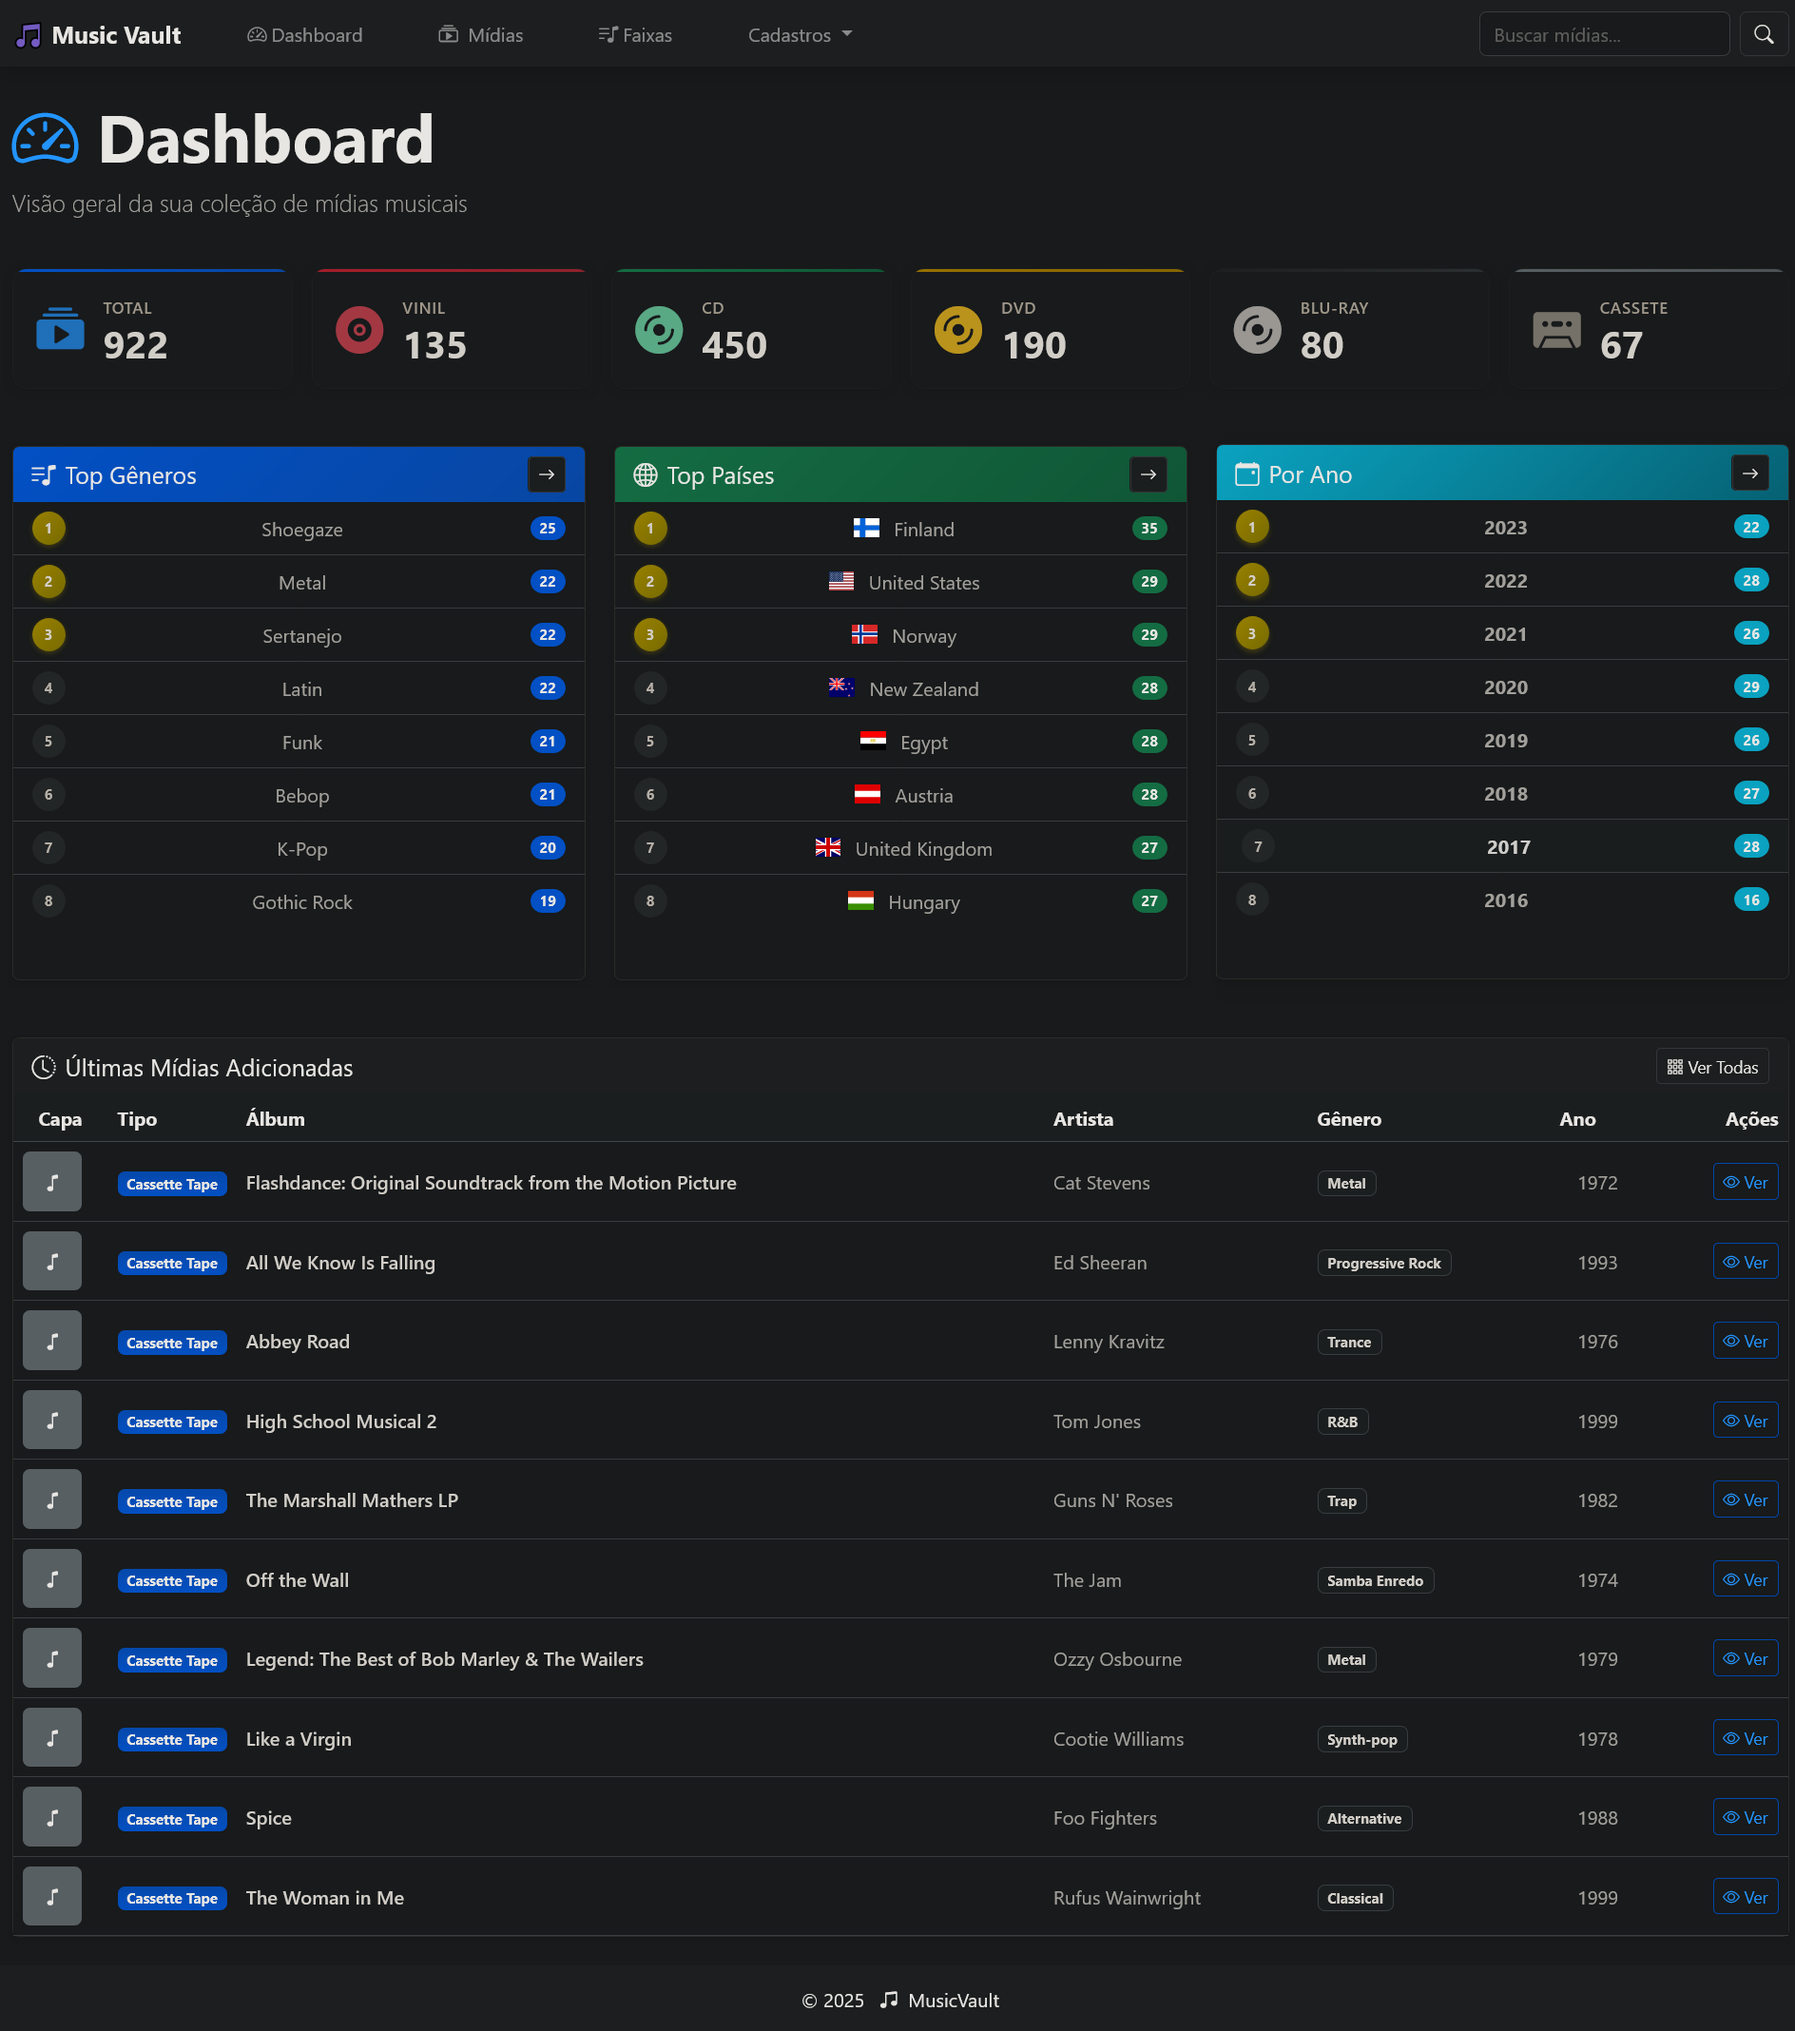
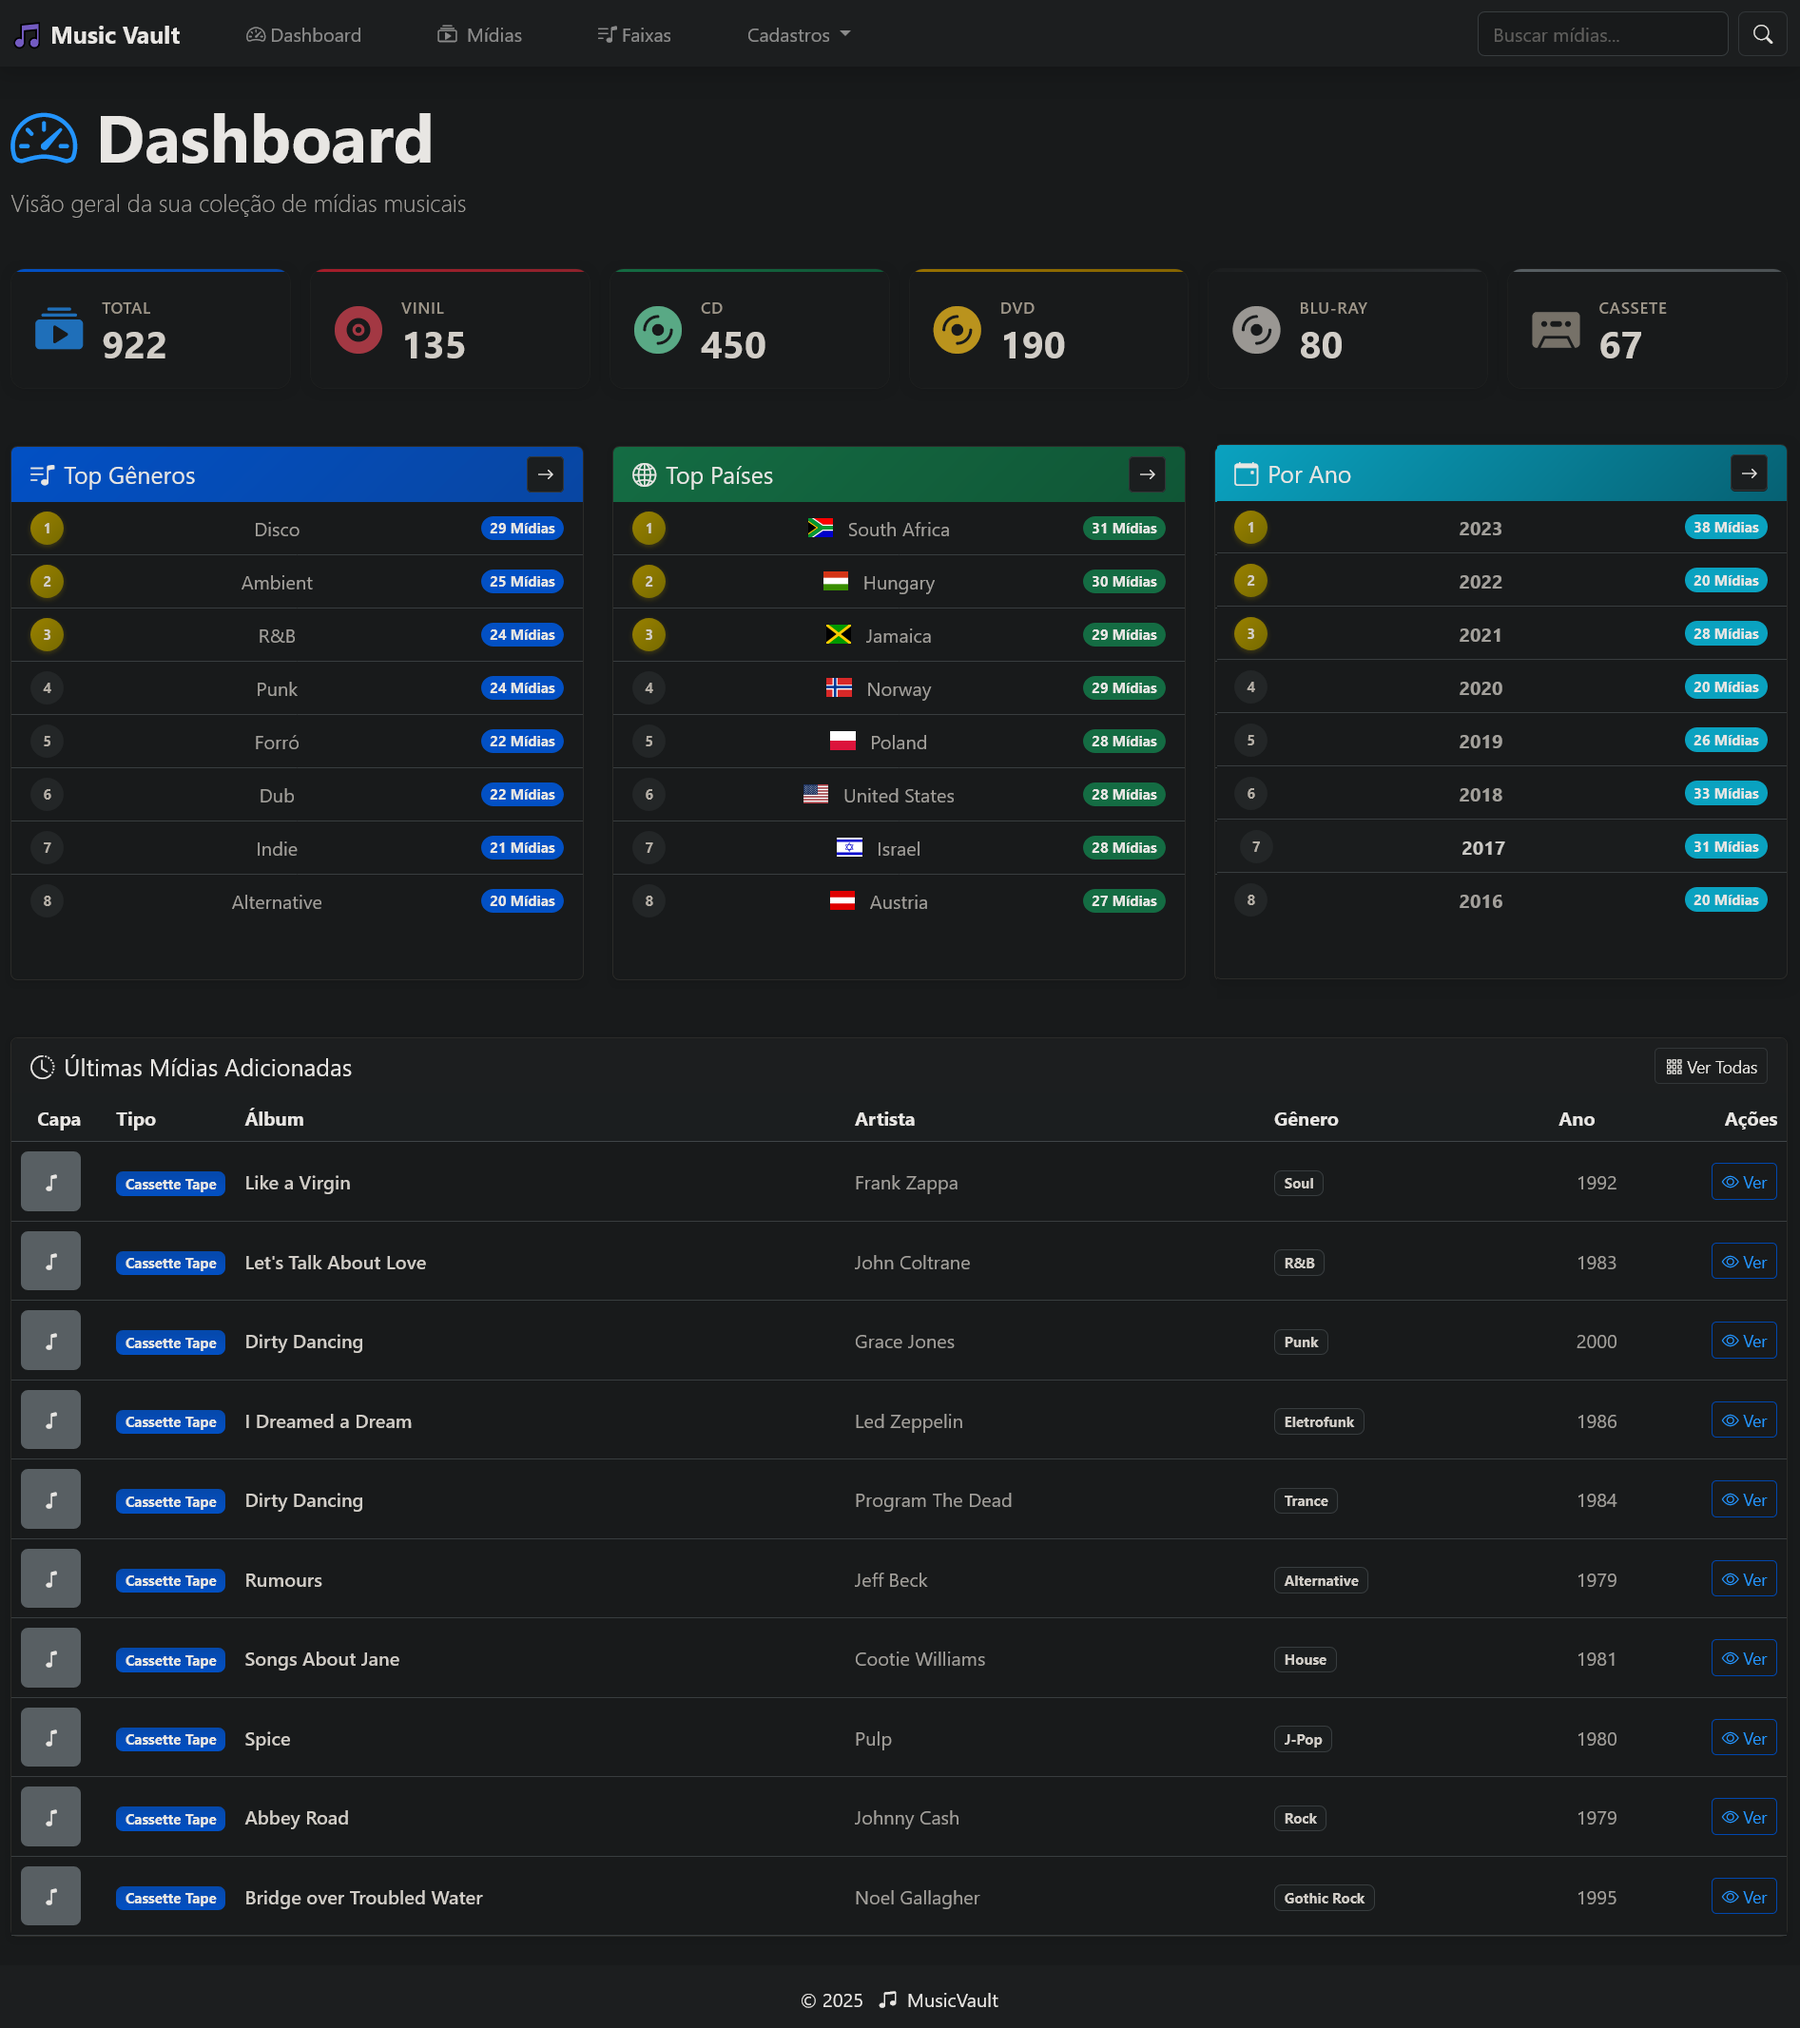
Include search in views all generes, countries and years

diff --git a/app/controllers/dashboard_controller.rb b/app/controllers/dashboard_controller.rb
@@ -36,22 +36,15 @@ class DashboardController < ApplicationController
     @genres = Genre.joins(:media_physicals)
                    .select('genres.*, COUNT(media_physicals.id) as media_count')
                    .group('genres.id')
-                   .order('genres.name ASC').page(params[:page]).per(10)
-  end
-
-  def all_years
-    # Pega todos os anos com contagem
-    all_years_hash = MediaPhysical.where.not(release_year: nil)
-                                  .group(:release_year)
-                                  .count
-                                  .sort_by { |year, _| year }
-                                  .reverse
-
-    # Converte hash para array de objetos paginável
-    @years = Kaminari.paginate_array(all_years_hash).page(params[:page]).per(10)
-
-    # Calcula o máximo para a barra de progresso (de todos os anos, não só da página)
-    @max_count = all_years_hash.values_at.max || 1
+                   
+    if params[:search].present?
+      @genres = @genres.where('genres.name ILIKE ?', "%#{params[:search]}%")
+      @search_term = params[:search]
+    end
+    
+    @genres = @genres.order('genres.name ASC')
+                    .page(params[:page])
+                    .per(10)
   end
 
   def by_genre
@@ -60,6 +53,44 @@ class DashboardController < ApplicationController
                    .includes(:media_type, :record_label, :country)
                    .order(album_title: :asc)
                    .page(params[:page]).per(10)
+  end
+
+  def OLD_all_years
+    all_years_hash = MediaPhysical.where.not(release_year: nil)
+                                  .group(:release_year)
+                                  .count
+                                  .sort_by { |year, _| year }
+                                  .reverse
+
+    @years = Kaminari.paginate_array(all_years_hash).page(params[:page]).per(10)
+
+    @max_count = all_years_hash.values_at.max || 1
+  end
+
+  def all_years
+    # Captura o termo de busca
+    @search_term = params[:search]
+    
+    # Query base
+    query = MediaPhysical.where.not(release_year: nil)
+    
+    # Aplica filtro se houver busca
+    if @search_term.present?
+      # Busca por ano exato ou parcial
+      query = query.where('CAST(release_year AS TEXT) LIKE ?', "%#{@search_term}%")
+    end
+    
+    # Pega todos os anos com contagem
+    all_years_hash = query.group(:release_year)
+                          .count
+                          .sort_by { |year, _| year }
+                          .reverse
+
+    # Converte hash para array de objetos paginável
+    @years = Kaminari.paginate_array(all_years_hash).page(params[:page]).per(10)
+
+    # Calcula o máximo para a barra de progresso (de todos os anos, não só da página)
+    @max_count = all_years_hash.map(&:last).max || 1
   end
 
   def by_year
@@ -74,9 +105,15 @@ class DashboardController < ApplicationController
     @countries = Country.joins(:media_physicals)
                         .select('countries.*, COUNT(media_physicals.id) as media_count')
                         .group('countries.id')
-                        .order('countries.name ASC')
-                        .page(params[:page])
-                        .per(10)
+    
+    if params[:search].present?
+      @countries = @countries.where('countries.name ILIKE ?', "%#{params[:search]}%")
+      @search_term = params[:search]
+    end
+    
+    @countries = @countries.order('countries.name ASC')
+                    .page(params[:page])
+                    .per(10)
   end
 
   def by_country
